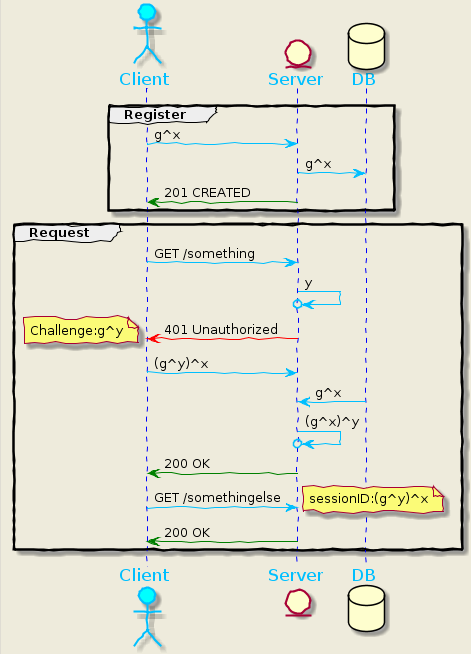
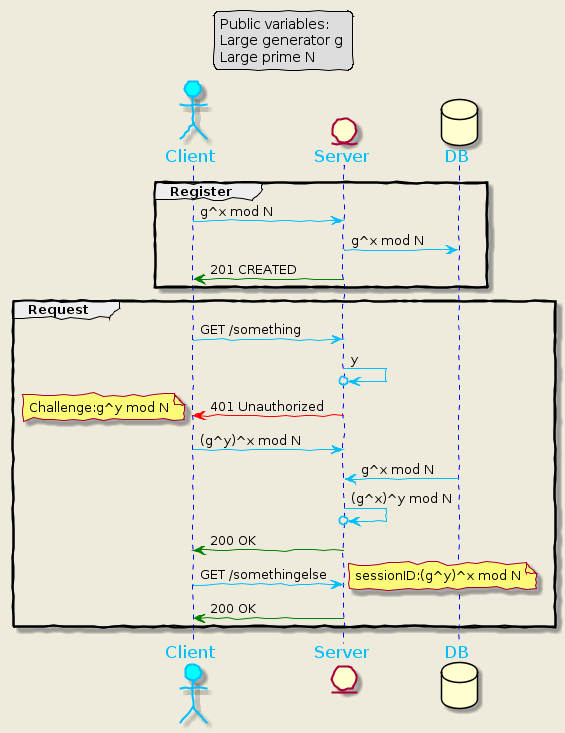
Improve the sequence diagram

Changed region(s): [[0.0, 0.0, 1.0, 1.0]]

diff --git a/readme.md b/readme.md
@@ -7,8 +7,8 @@ A Spring project utilizing zero-knowledge-password-proof authentication with cha
 
 [Zero-knowledge](https://en.wikipedia.org/wiki/Zero-knowledge_proof) is a cryptographic method one can use when required to prove knowledge of a certain secret without revealing anything about the secret itself.
 This method is utilized in this project to provide a zero-knowledge-password-proof (ZKPP) authentication mechanism, meaning proving the knowledge of a password without revealing anything about it. Traditionally, when a user logs into a system, he transmits his user and password over the (possibly encrypted) network. Various security methods exist in order to ensure this password remains a secret, such as hashing, salting, etc. 
-This project provides enhanced security in the form of ZKPP, and changing session IDs. Specifically, the password of the user is kept completely secret, and is never transmitted over the wire. Additionally, the session ID of the user is periodically changed on the server side. This session ID is also kept secret and the server only transmits a hint via a message broker (e.g. kafka) about the new session ID. This hint relies on the [discrete logarithm](https://en.wikipedia.org/wiki/Discrete_logarithm) problem, to ensure only the user can compute the new session ID, and no one else. This makes session hijacking practically useless since the sessionID is only valid for a very short period of time (configurable). 
-The server can also set inactivity thresholds on the session so that if a user is idle for a certain period of time his session is invalidated and he wioll have to perform the authentication again.
+This project provides enhanced security in the form of ZKPP, and changing session IDs. Specifically, the password of the user is kept completely secret, and is never transmitted over the wire. Additionally, the session ID of the user is periodically changed on the server side. This session ID is also kept secret and the server only transmits a hint via a message broker (e.g. kafka) about the new session ID. This hint relies on the [discrete logarithm](https://en.wikipedia.org/wiki/Discrete_logarithm) problem, to ensure only the user can compute the new session ID, and no one else. This makes session hijacking practically useless since the session ID is only valid for a very short period of time (configurable). 
+The server can also set inactivity thresholds on the session so that if a user is idle for a certain period of time his session is invalidated and he will have to perform the authentication again.
 
 Here is an example of a client registering and then making arbitrary requests.
 
@@ -16,7 +16,7 @@ Here is an example of a client registering and then making arbitrary requests.
   <img src="https://github.com/maxamel/SpringZKAuth/blob/master/diagram.png" />
 </p>
 
-Note that session changing is not described in the diagram, but it is explained further on.
+Note that session ID changing is not described in the diagram, but it is explained further on.
 
 # Prerequisites
 
@@ -43,8 +43,8 @@ npm install no-kafka-slim
 
 # Usage
 
-The purpose of the project is to provide an infrastructure. If you want to build a RESTful service which provides enhanced security and privacy through ZKPP and changing sessionIDs then this project is for you.
-However, the content to be served by the service is up to the user. Currently the logic of the application is just keeping records of users and providing secure, authenticated access to them. 
+The purpose of the project is to provide an infrastructure. If you want to build a RESTful service which provides enhanced security and privacy through ZKPP and changing sessionIDs then you can use this project as a starting point.
+However, the content to be served by the service is up to you. Currently the logic of the application is just keeping records of users and providing secure, authenticated access to them. You can add your own APIs, DB tables, and all the rest.
 
 # Running the Javascript client
 
